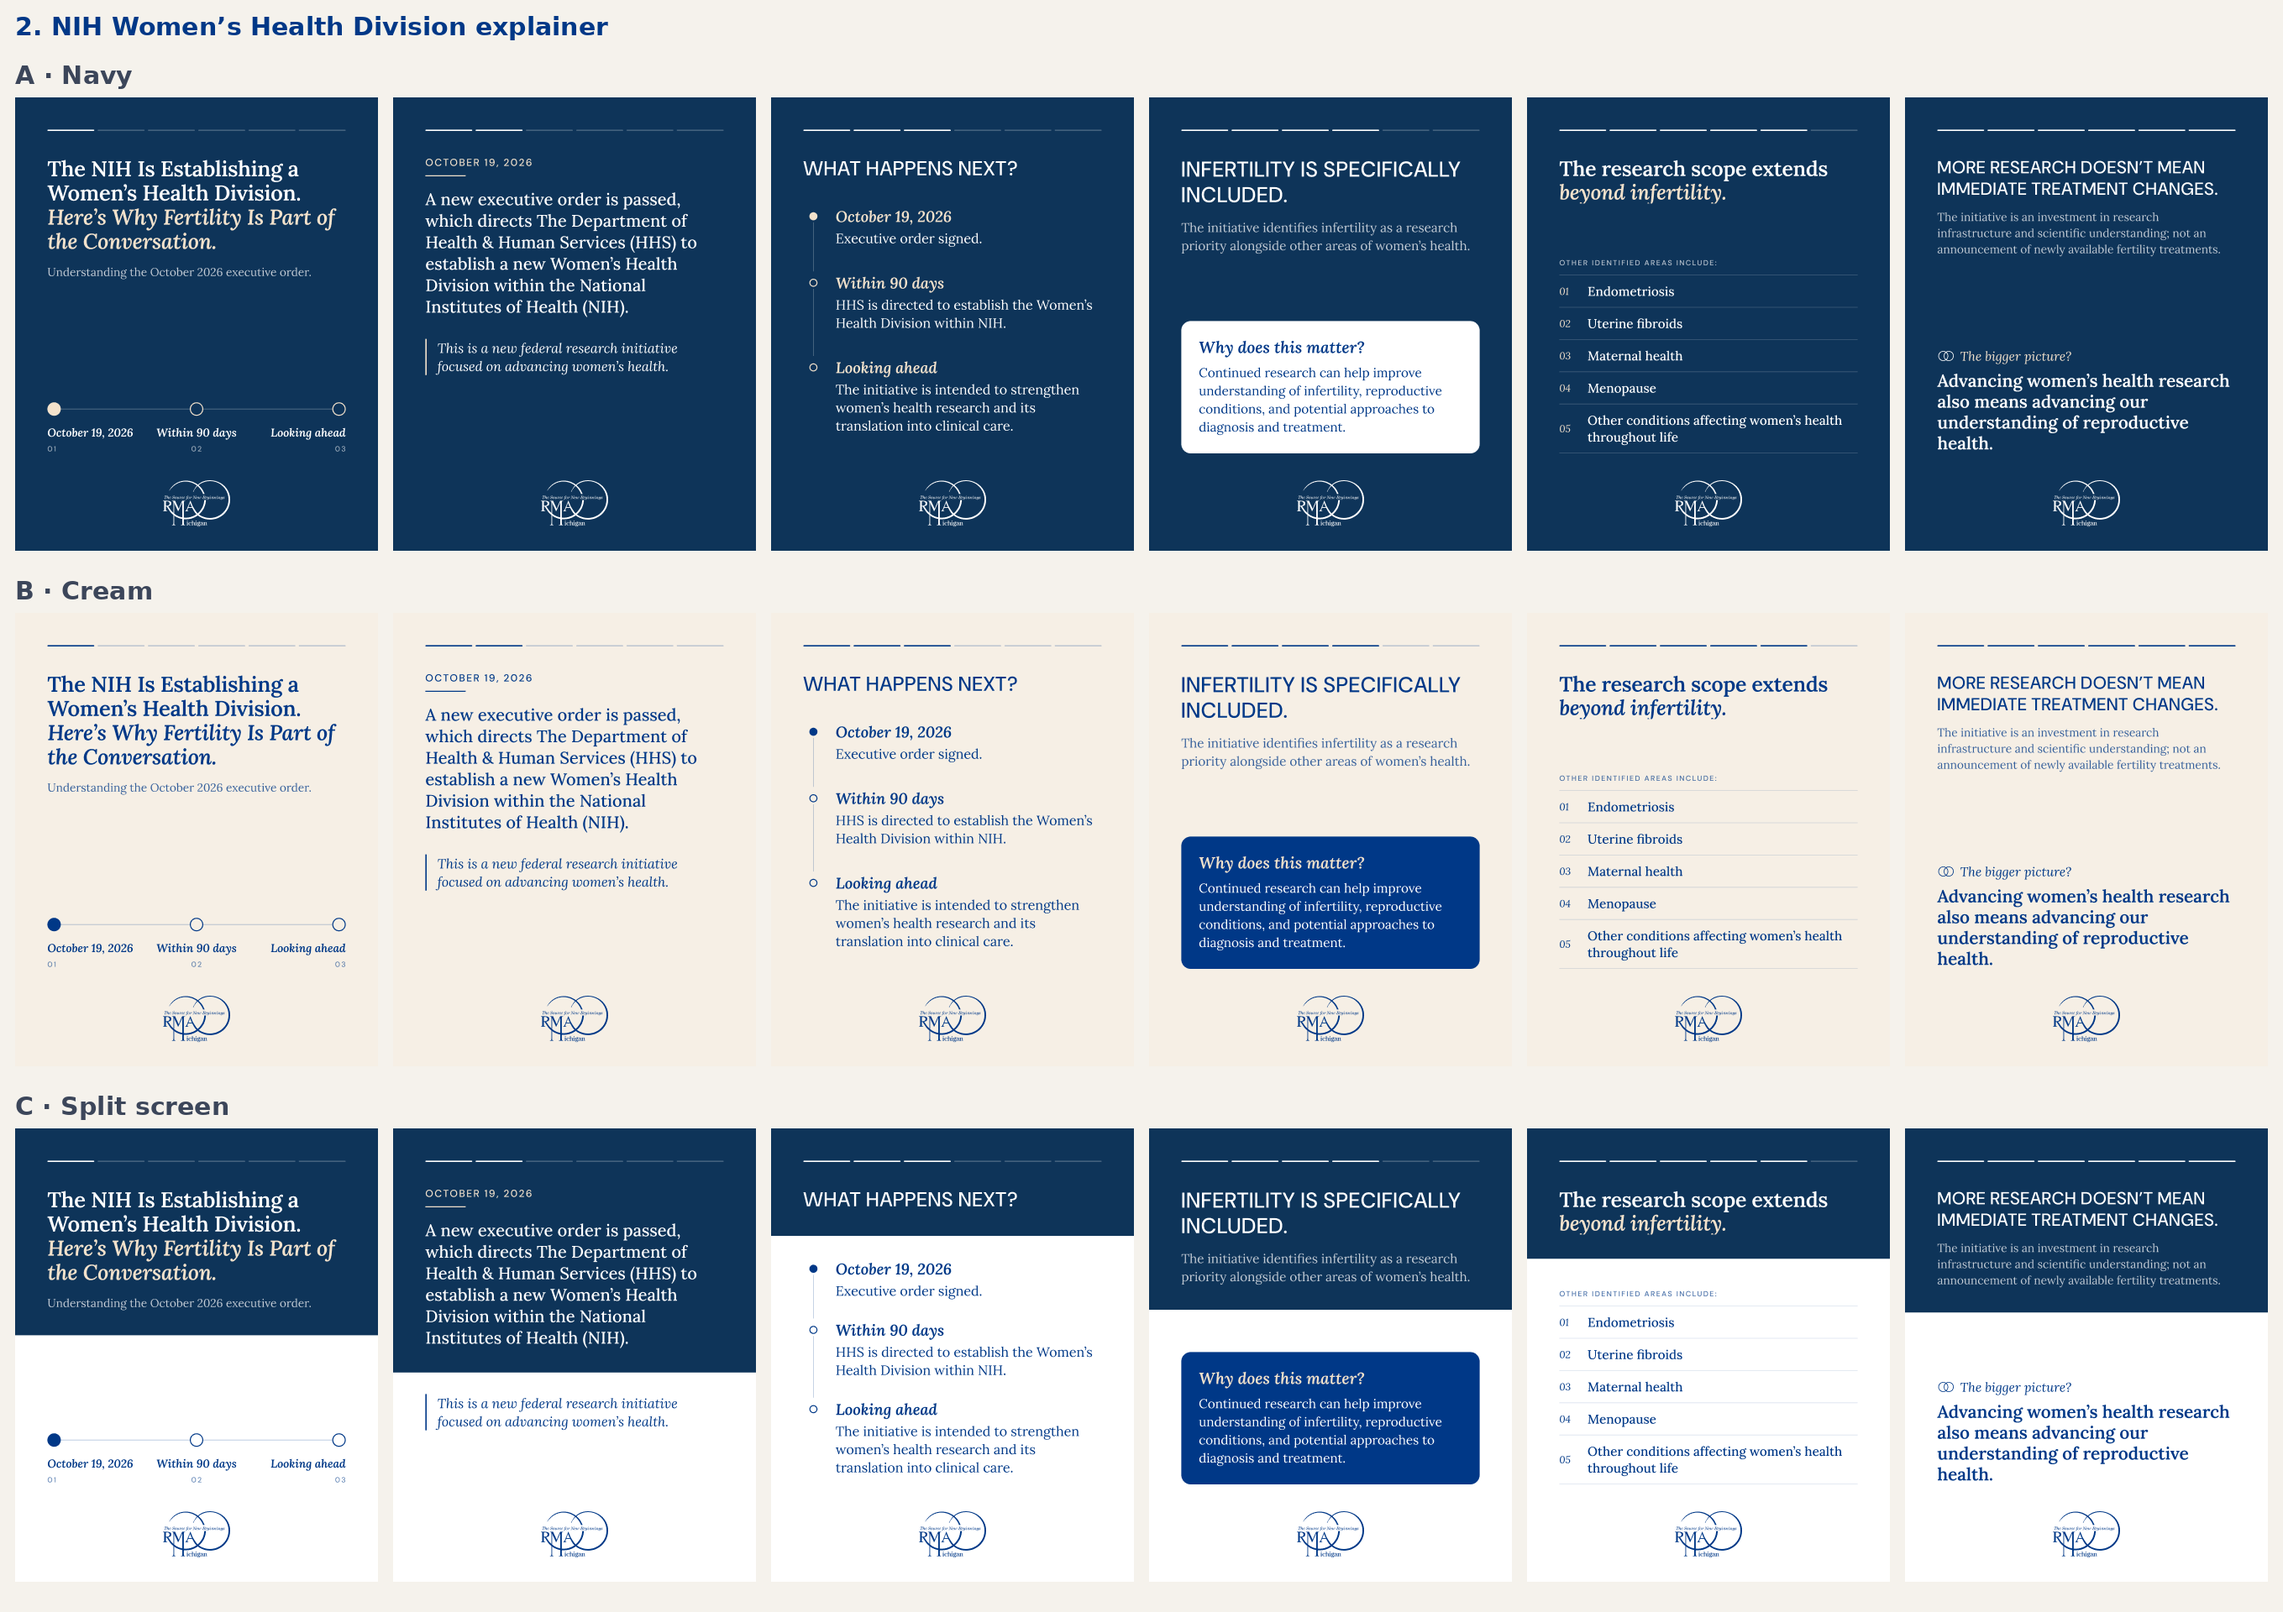
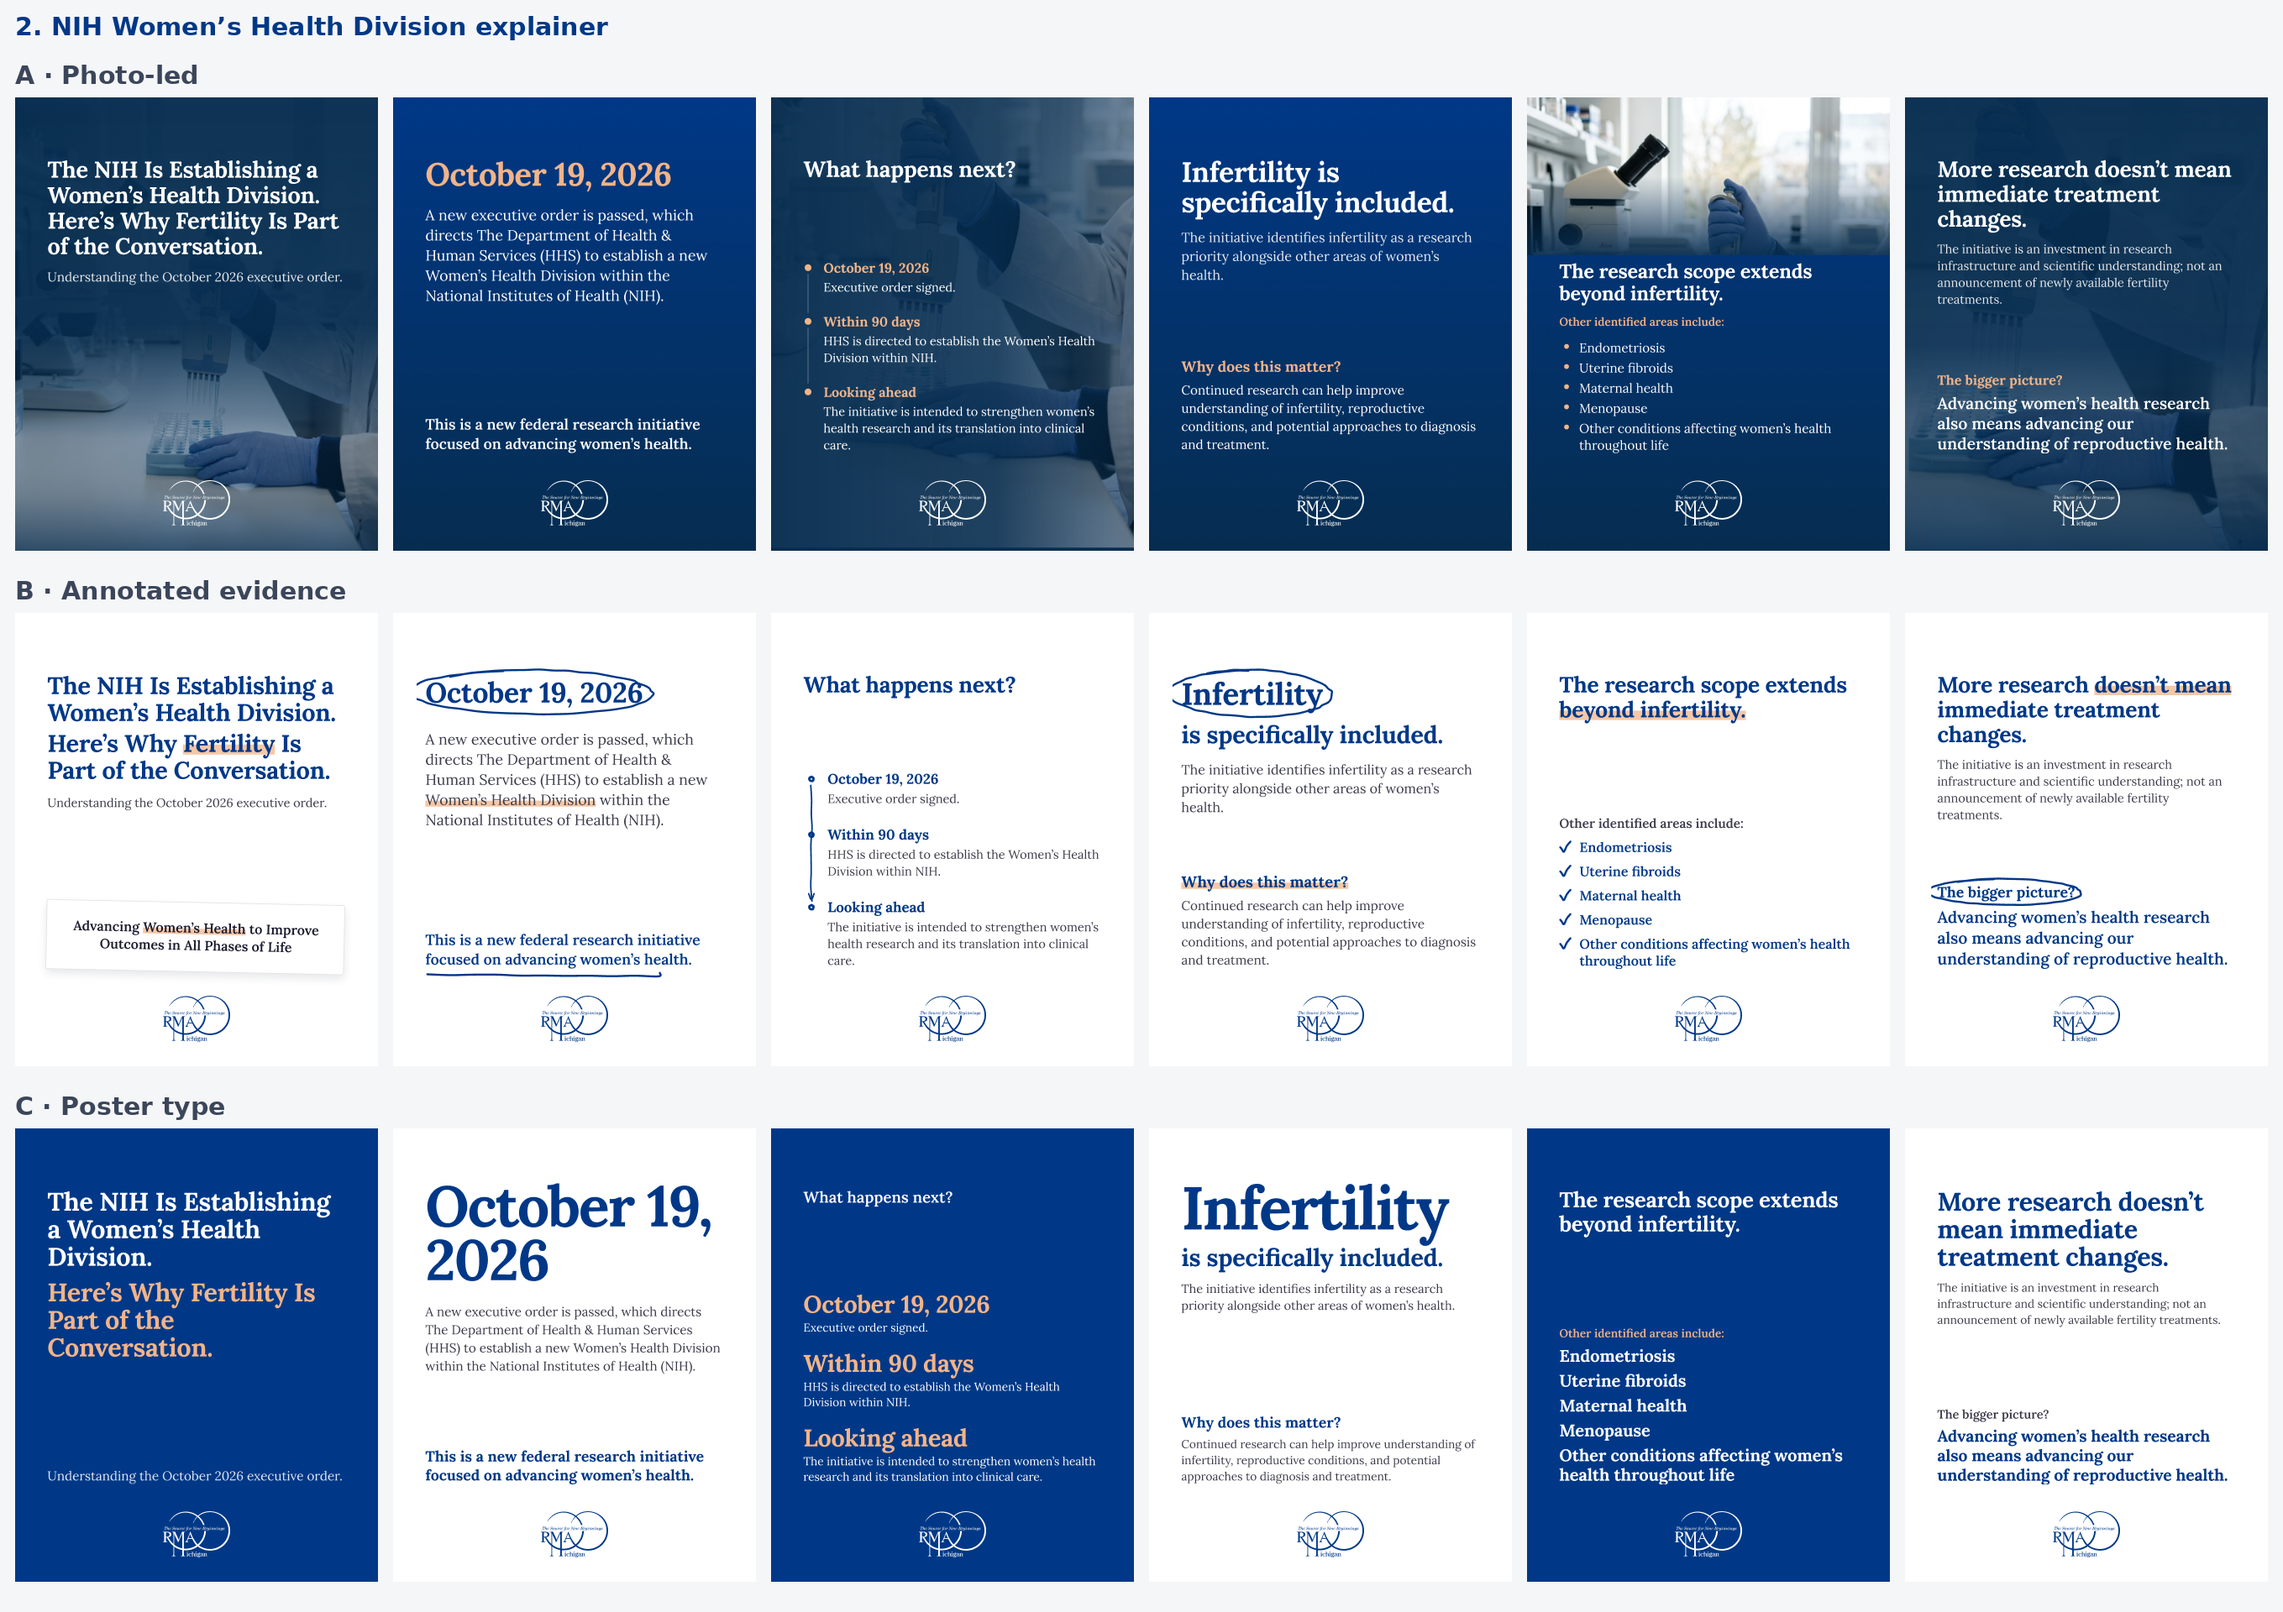
Trend slots Nov: round 3 rework (Impeccable + Taste Engine)
Three structurally different RMA versions per post: A photo-led, B annotated
evidence, C poster type. Updated previews and handoff notes with process,
system, per-post treatments and client flags.

Claude-Session: https://claude.ai/code/session_016yKrfT8RQFRJPW8Btr4Q9U

diff --git a/rma-michigan-social/handoff-trend-nov.md b/rma-michigan-social/handoff-trend-nov.md
@@ -3,52 +3,105 @@
 Source: `RMA_SCF_Trend_Slots_November.pdf`, RMAMI section only (the SpringCreek Fertility concepts
 were not built). All slide copy is the PDF's graphic text, verbatim.
 
-Figma: Sandbox page, section "Trend slots — November (RMA)", below the Community & grants section.
-Each post has three rows (A, B, C), one slide per column, 1080×1350.
+Figma: Sandbox page, section "Trend slots — November (RMA)" (node 233:6440).
+Each post has three rows (A, B, C), one slide per column, 1080×1350. Frames are named
+`RMA Michigan_Instagram_Trend Nov_<post>_<version>_<slide>`.
 
-## Round 2 — crafted rebuild (replaces round 1)
+## Round 3 — Impeccable + Taste Engine rework (current)
 
-Feedback: round 1 looked "very AI" (glass panels on a glow, grey placeholder bars, generic icon
-chips, content floating at the top). Everything was rebuilt with an editorial system:
+Rounds 1 and 2 were replaced. This round used two design tools:
 
-- **Colour:** flat brand navy (#0E3459) or cream (#F6EFE5); no glow, no glass. One accent: soft
-  cream on navy, navy on cream. Amber appears only on caution stickers.
-- **Type:** Lora SemiBold headlines with the key phrase in SemiBold Italic (the accent colour);
-  Lora Regular for body; DM Sans only where something is "interface" (phone UI, small caps labels,
-  the caps news headlines in post 2).
-- **Grid (QA'd on all 57 slides):** 96 px side margins; carousel progress rail at y 96; headline top
-  at y 176; visuals bottom-anchored to y 1060 (or flowing when a slide is text-led); RMA logo
-  200 px wide, centred, y 1140, on every slide. No orphans, nothing clipped.
-- **Versions:** A — Navy. B — Cream. C — Split screen (navy band for the headline; on post 3 the
-  check slides split vertically: navy text panel, light panel for the phone).
+- **Taste Engine (tastelabs).**
+  - Its slop lookup flagged the patterns round 2 still had: the same Title / Body / visual stack
+    on every slide, centred single columns, and template layouts.
+  - A website extraction of rmami.com confirmed the brand world:
+    - Navy #062D50 on white, with sand, aqua and peach #F2B489 accents.
+    - Editorial photography with a navy fade.
+- **Impeccable (pbakaus/impeccable).**
+  - Its command-line launcher was blocked in this environment, so its playbooks (craft floor,
+    typeset, layout, colour, bolder, polish, persuade mode) were applied by hand.
+  - Rules taken from it:
+    - Inherit the established world and vary the structure.
+    - No eyebrow labels or decorative numbering.
+    - No hero-metric template.
+    - No cream + italic serif + hairline "AI editorial" cluster.
+    - One accent colour.
+    - Every slide must still read when blurred: one primary element, then the support.
 
-| Post | What carries it |
-| --- | --- |
-| 1. AI vs. Your Fertility Specialist (6) | Cover: one split card, "AI" (typing dots) vs "Your Fertility Specialist", with a "vs" seal. Slide 2: the AMH question as a sent chat bubble, AI "typing" below. Slide 3: frame splits in half — AI can help with (light) / Your specialist can (contrast). Slide 4: **50% shown three ways** — A: a giant "50%" half filled, half outlined; B: ten answer bubbles, five filled; C: one bar split exactly in half. Slide 5: numbered hairline list. Slide 6: closing line with the two-ring mark as a watermark. |
-| 2. NIH Women's Health Division (6) | Cover: headline plus a horizontal timeline (the three milestones from slide 3). Slide 2: date kicker, statement, italic pull quote. Slide 3: vertical timeline with italic milestone heads. Slide 4: "Why does this matter?" contrast panel. Slide 5: numbered hairline list of research areas. Slide 6: "The bigger picture?" closer. |
-| 3. Before You Believe That Fertility TikTok (7) | Realistic phone screens (bezel, status bar, Reels header, right-rail counts, handle + Follow, caption, audio line, tab bar) using three AI stills (creator setup, wellness flat lay, supplement bottle), each with a fact-check sticker: check for checks 1–2, amber caution for 3–5. Check 2 is a search screen whose results are the slide's own phrases (peer-reviewed research, reputable medical organizations, personal anecdotes). Cover lists the five checks beside a phone; slide 7 runs from the feed to the care team. |
+### System (all 57 slides)
 
-Previews: `previews/trend-nov-1-ai-vs-specialist-A-B-C.png`, `previews/trend-nov-2-nih-explainer-A-B-C.png`,
-`previews/trend-nov-3-fertility-tiktok-A-B-C.png`.
+- **Type:** Lora Bold / SemiBold / Regular, the face on the client's own Instagram (page "Sept-Oct
+  RMA Content"). No italics. DM Sans only inside interface mock-ups.
+- **Colour:**
+  - Navy #003887 (client Instagram), deep navy #062D50 (rmami.com) and white.
+  - **Peach #F2B489** is the single accent, taken from rmami.com. It is used only on navy (and as
+    a highlighter on white), where it has contrast.
+- **Grid:**
+  - 96 px side margins.
+  - Headline top at y 176.
+  - All content ends at or above y 1060.
+  - RMA logo 200 px wide, centred, y 1140, on every slide.
+  - No progress rail.
+  - A geometry audit and a visual review were done on every slide.
+
+### The three versions
+
+| Version | Idea | 50% treatment (post 1, slide 4) |
+| --- | --- | --- |
+| **A · Photo-led** | Real-feeling photography with the client's navy fade (left, top or bottom). Four new AI photos: a laptop late at night, a consult desk, a lab, a phone in bed. | "50%" in peach at poster size, then the sentence it belongs to. No chart. |
+| **B · Annotated evidence** | White pages that look fact-checked by hand: navy pen circles, underlines, ticks, crosses and boxes, plus a peach highlighter. Screenshots are the evidence. | Ten AI reply bubbles, five crossed out. |
+| **C · Poster type** | Alternating navy and white fields, with poster-scale Lora carrying the message. No imagery. | The numeral straddles a frame split exactly half navy, half white. |
+
+| Post | A · Photo-led | B · Annotated evidence | C · Poster type |
+| --- | --- | --- | --- |
+| 1. AI vs. Your Fertility Specialist (6) | The AMH question as a chat bubble over the laptop photo. "AI can help with" and "Your specialist can" in two photo halves. The checklist sits under a consult-desk photo strip. | The cover question circled. A chat screenshot with the typing dots circled. Ticks for AI, a hand-drawn box for the specialist. Empty checkboxes for "Before trusting an answer, ask". | The question set as a pull quote. The specialist half sits on a navy field. The closing line has peach on navy. |
+| 2. NIH Women's Health Division (6) | Lab photography, with the date in peach. A timeline with peach nodes over the photo. A photo strip above the research-areas list. | A cut-out of the order's title on the cover. The date and "Infertility" circled. A pen-drawn timeline. A ticked list of areas. | "October 19, 2026" and "Infertility" at poster scale. The timeline is set as three peach headings on navy. |
+| 3. Before You Believe That Fertility TikTok (7) | Each check is a full-screen Reel with an RMA fact-check sheet sliding up: a navy check for checks 1–2, a peach caution for 3–5. Check 2 is a search screen. | Reel screenshots with the pen pointing at what to check: the handle, the sources, the caption, "View product", "Day 12". The close circles the like count. | Giant check numerals 1–5 bleed off the top right, with a check or caution mark. |
+
+Previews (rows A / B / C):
+- `previews/trend-nov-1-ai-vs-specialist-A-B-C.png`
+- `previews/trend-nov-2-nih-explainer-A-B-C.png`
+- `previews/trend-nov-3-fertility-tiktok-A-B-C.png`
+
+### History
+
+- **Round 1:** glass panels and placeholder bars. The client said it looked "very AI".
+- **Round 2:** a cream / navy editorial rebuild with italic accents and a progress rail.
+- Feedback carried into round 3:
+  - No circle chart for 50%.
+  - A different 50% approach per version.
+  - No meaningless decorative circles.
+  - The Reels must look real.
 
 ## Flags for the client / account team
 
-1. **Sources.** The PDF lists "Source: URL" without the links. The 50% figure (post 1), the NIH
-   executive order details (post 2) and the 37% TikTok finding (caption of post 3) should be checked
-   against the actual sources before publishing. Post 1 slide 4 shows "ASRM 2026 Scientific
-   Congress research." as written.
-2. **Post 1, slide 2.** "An example question, specific to fertility, that someone might enter into
-   an AI tool." reads as a note to the designer, so it is not on the graphic. Only one example
-   question is supplied, so only that one is used; the AI reply is shown as a typing indicator.
-3. **Post 2, slide 2 wording.** "A new executive order is passed" — executive orders are signed, not
-   passed (slide 3 says "signed"). Suggest "signed".
-4. **Post 3 phone screens are mock-ups.** The UI is modelled on Instagram Reels (the post itself is
-   about TikTok; the user asked for "reels"). No platform logos are used. Handles
-   (ttc.notes, wellness.with.you, the.supplement.shelf), captions and counts are invented; captions
-   are deliberately neutral so the post does not repeat any misleading claim. Check the handles do
-   not match real accounts before publishing.
-5. **Photography.** The three phone stills are AI-generated (objects and setting only, no people or
-   faces).
-6. **Caution colour.** Amber is the only colour outside the navy/cream palette, used only on the
-   caution stickers.
-7. **Trend-slot dates.** The PDF does not say which week each concept is for; confirm the slots.
+1. **Sources.** The PDF lists "Source: URL" without the links. Check these against the real
+   sources before publishing:
+   - the 50% figure (post 1);
+   - the executive-order details (post 2);
+   - the 37% TikTok finding (post 3 caption).
+
+   Post 1 slide 4 shows "ASRM 2026 Scientific Congress research." as written.
+2. **Post 1, slide 2.**
+   - "An example question … that someone might enter into an AI tool" reads as a note to the
+     designer, so it is not on the graphic.
+   - Only the one example question supplied is used. The AI reply is shown as a typing indicator.
+3. **Post 2, slide 2 wording.** "A new executive order is passed": executive orders are signed,
+   not passed, and slide 3 says "signed". Suggest "signed".
+4. **Post 2, version B cover.** The order title ("Advancing Women's Health to Improve Outcomes in
+   All Phases of Life") comes from the brief's background paragraph, not the slide copy. Remove
+   it if only graphic text should appear.
+5. **Post 3 phone screens are mock-ups.**
+   - The UI is modelled on Instagram Reels (the post is about TikTok; the user asked for "reels").
+     No platform logos are used.
+   - Handles (ttc.notes, wellness.with.you, the.supplement.shelf), captions and counts are made
+     up. Captions are deliberately neutral so the post does not repeat a misleading claim.
+   - Check the handles do not match real accounts.
+6. **Photography is AI-generated.**
+   - Version A's four photos (laptop, consult desk, lab, phone in bed) show hands and partial
+     figures only, with no identifiable faces.
+   - The three Reel stills (creator setup, wellness flat lay, supplement bottle) show objects
+     only.
+7. **Peach accent.** Peach #F2B489 is from rmami.com but is not yet on the Instagram feed.
+   Confirm it is welcome there, or swap it for white.
+8. **Trend-slot dates.** The PDF does not say which week each concept is for. Confirm the slots.
